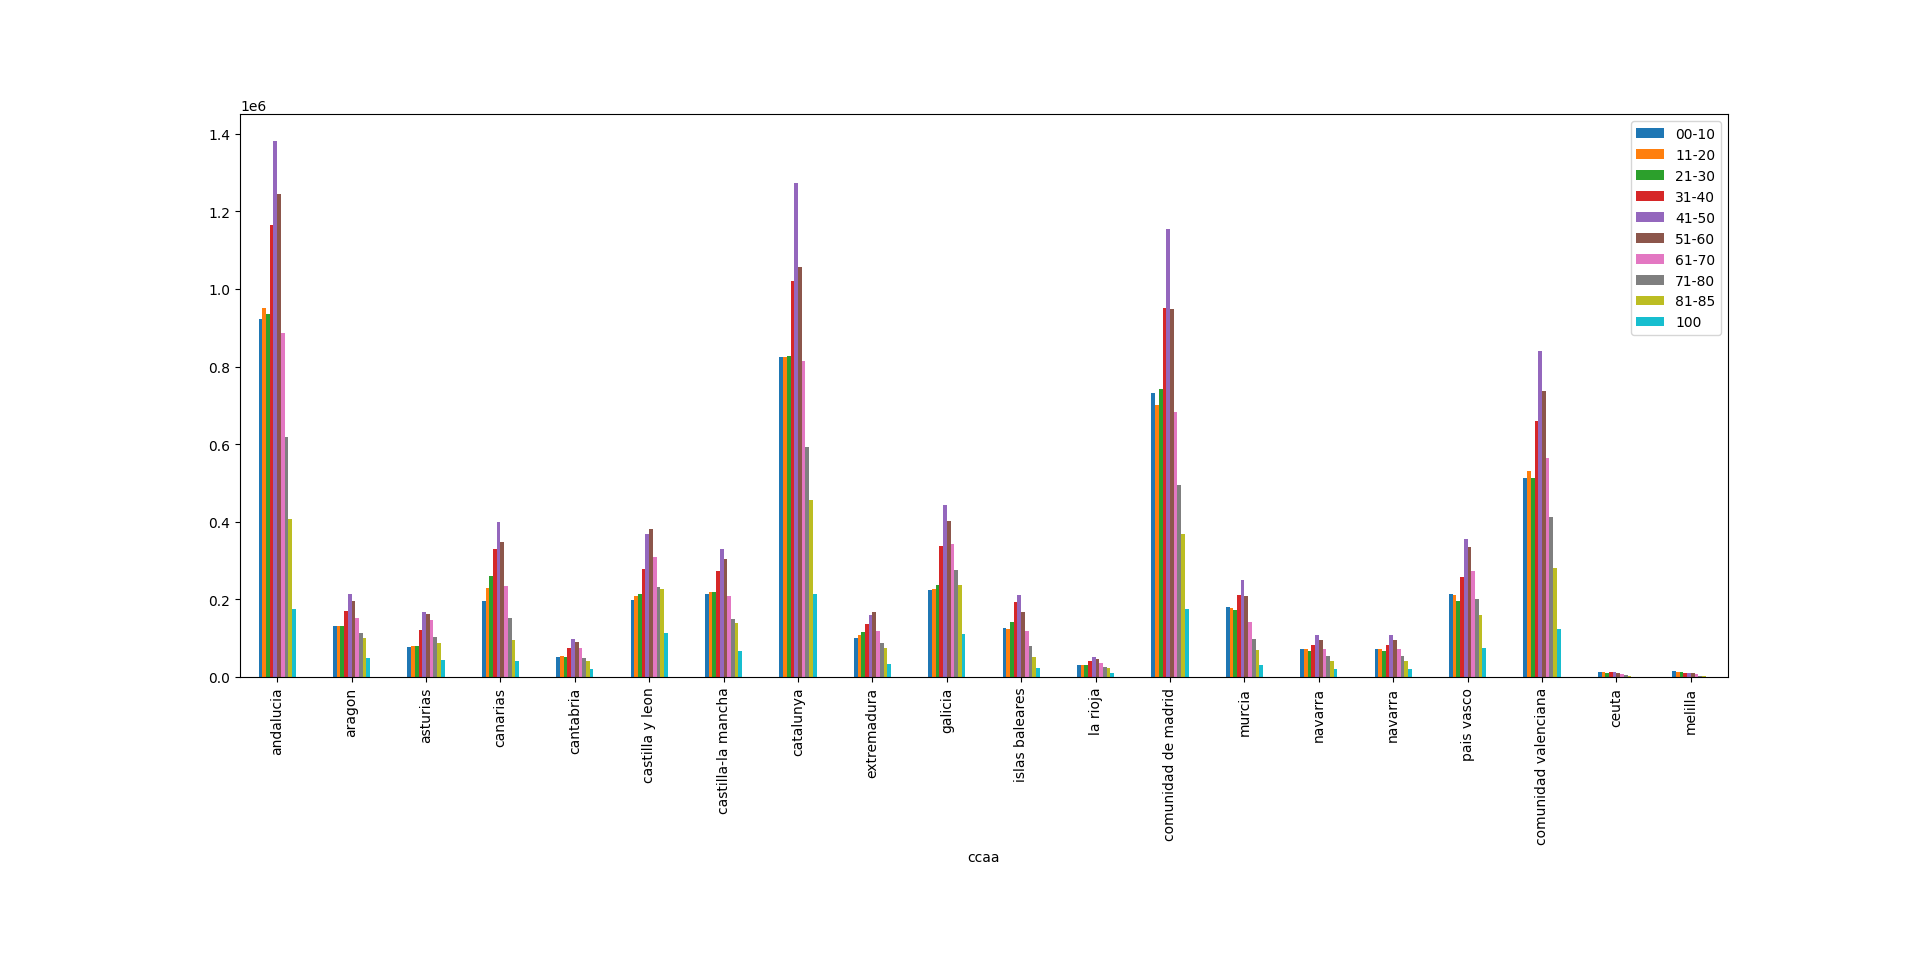
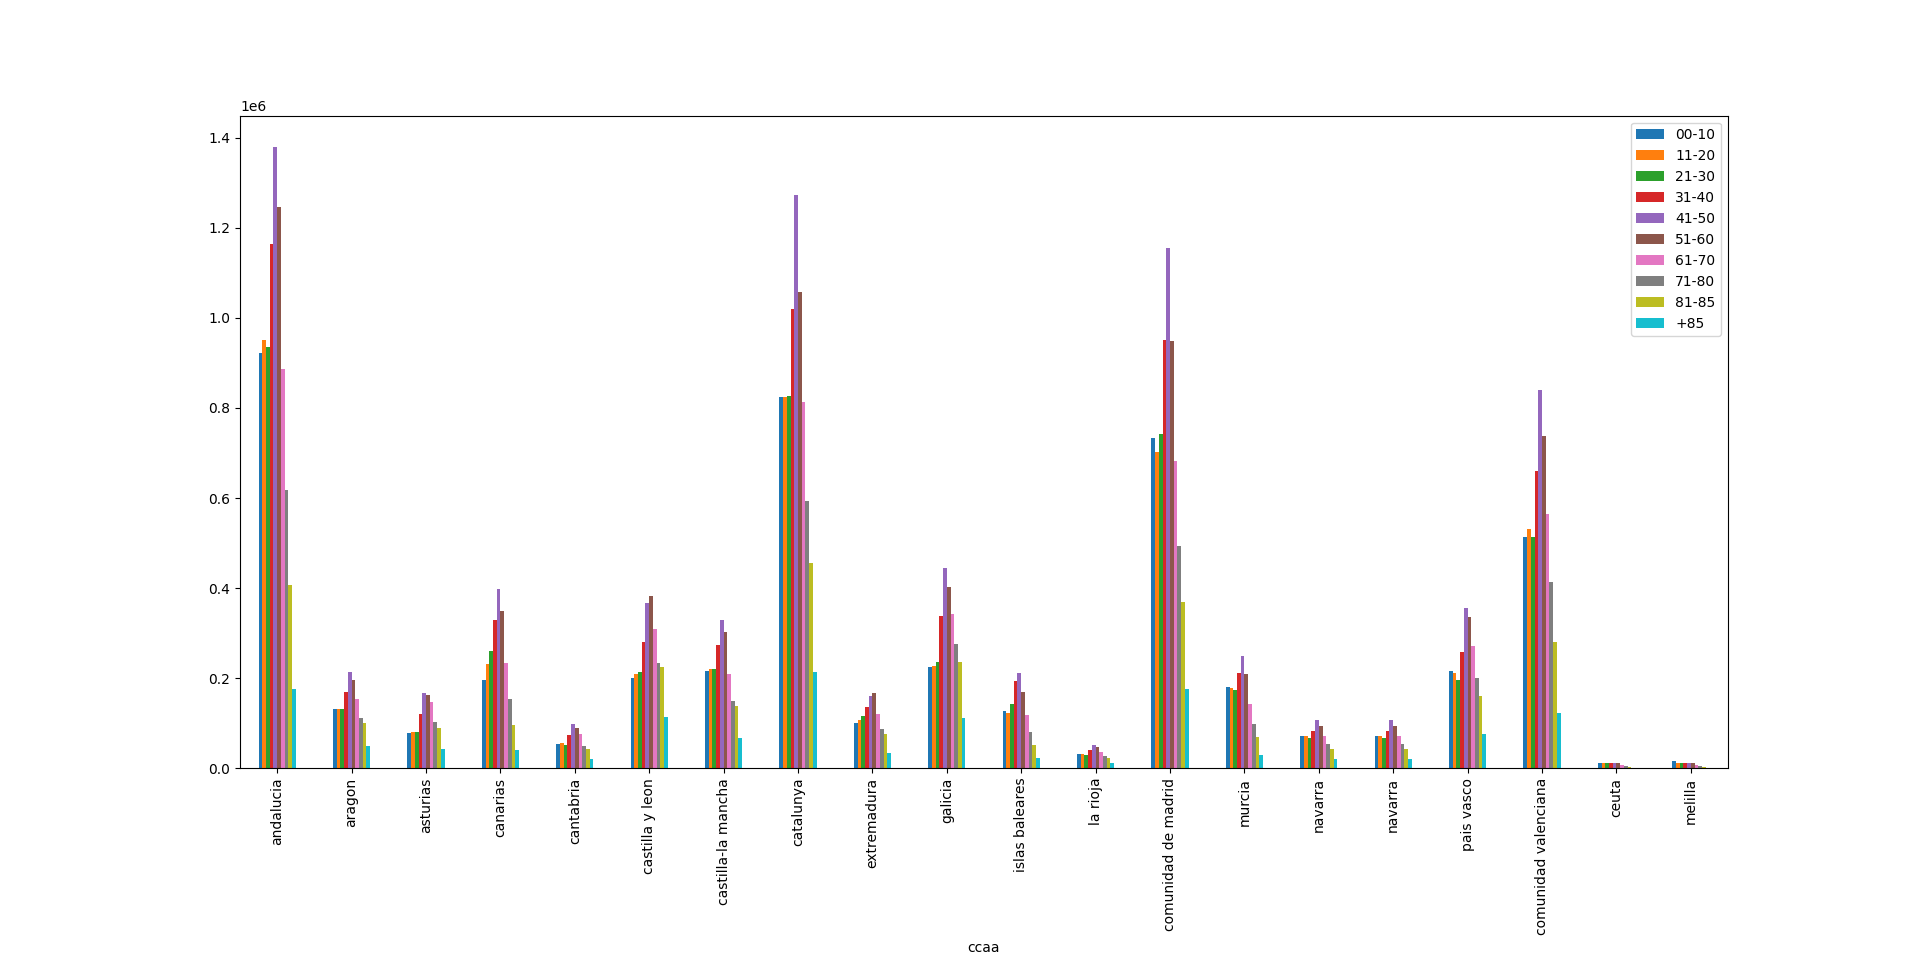
Foto actualizada

diff --git a/Application/src/results.py b/Application/src/results.py
@@ -91,8 +91,9 @@ if sys.argv[1] == '1':
 
 if sys.argv[1] == '2':
     #CASOS POR RANGO DE EDAD
-    eje_y = ["00-10", "11-20", "21-30", "31-40", "41-50", "51-60", "61-70", "71-80", "81-85", "100"]
     aux = CCAA_RANGO_EDAD.drop(20,axis=0) #Quito el total nacional
+    aux['+85'] = aux['100']
+    eje_y = ["00-10", "11-20", "21-30", "31-40", "41-50", "51-60", "61-70", "71-80", "81-85", "+85"]
     aux.plot(x= 'ccaa', y = eje_y, kind = 'bar')
     plt.show()
 
